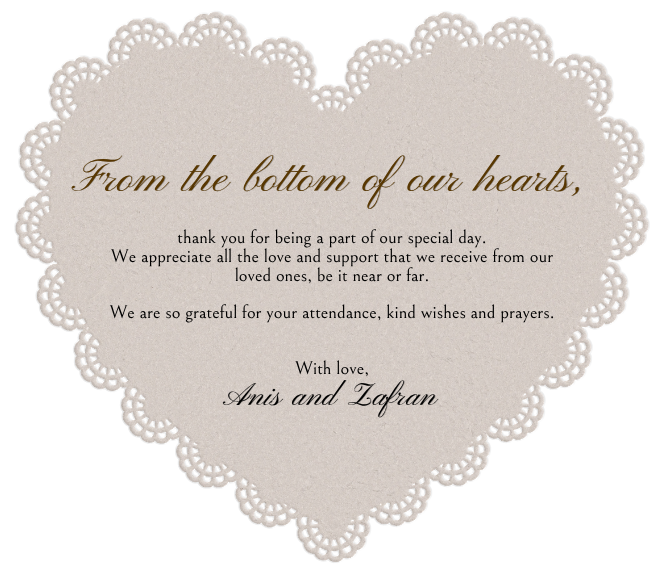
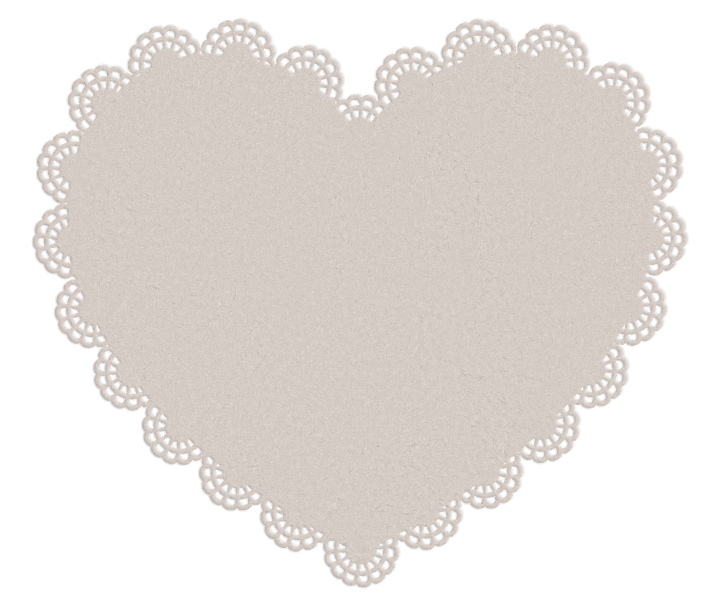
Rebuild the thank-you note from the Elementor export
The note was a flat PNG with the copy baked in, hung off the end of the
gift registry section. It becomes its own section with live text over the
blank doily, matching the Elementor page's structure.

Artwork re-downloaded from the source the page CSS references
(2-2-e1786461304989.png, 724x602) — the WP editor's trim of the 1200x630
original, which carries more heart per pixel than the untrimmed file.

Sizing deviates from Elementor the same way the questions card does: there
the box is min-height 50vh with the artwork sized by `contain`, so the
heart is height-driven and its width swings with the viewport while the
copy inside stays fixed px. Width drives it here instead, and the type is
in cqw against the heart's own width, so the note holds its proportions at
every breakpoint. 38vw is what Elementor's 50vh works out to at 1440x900.

The type scale comes from the old raster rather than Elementor's px sizes:
each line was measured off the PNG, scaled to this canvas, and divided by
the string's width at 1em. Elementor's own sizes run the heading out over
the lace at 1440x900. The note's paragraph gaps are tightened from the
export's blank-line spacers for the same reason — at a full line each, the
stack runs past the point of the heart.

diff --git a/components/sections/ThankYouSection.module.css b/components/sections/ThankYouSection.module.css
@@ -1,0 +1,138 @@
+/* Elementor: .e-9f8dec3 — min-height 18vh, column. Transparent: the backdrop
+   comes from the shared scroll stage in InvitationContent.module.css. */
+.section {
+  position: relative;
+  z-index: 1;
+  width: 100%;
+  min-height: 18vh;
+  display: flex;
+  flex-direction: column;
+  align-items: center;
+  justify-content: center;
+  padding-block: 3rem;
+  overflow: hidden;
+}
+
+/* ── The doily heart: Elementor .e-9b20c2e-a82e884 — the artwork as a
+   contained background with the note laid over it.
+
+   Deviates from Elementor on sizing. There the box is min-height 50vh with the
+   artwork sized by `contain`, so the heart is height-driven and its width
+   swings with the viewport's aspect ratio; the copy inside is fixed px and
+   doesn't follow. Width drives it here instead, mirroring .registryCard and
+   .questions in GiftRegistrySection so the three cards share an edge down the
+   column. 38vw is what Elementor's 50vh works out to on a 1440x900 desktop.
+
+   The second cap keeps the heart under 85svh tall, expressed as a width
+   (85svh x the ratio) rather than a max-height — max-height would clamp the
+   box against the aspect-ratio and letterbox the artwork inside it. svh, not
+   vh: on mobile vh means the tall viewport with the address bar hidden, so a
+   vh cap can still run past the visible screen. Matches InvitationCardSection.
+   ── */
+.heart {
+  position: relative;
+  z-index: 1;
+  width: 38vw;
+  max-width: min(724px, calc(85svh * 724 / 602));
+  aspect-ratio: 724 / 602;
+  /* Sizing container: every type size below is a share of the heart's own
+     width (cqw), so the note scales with the artwork and keeps the same
+     proportions at every breakpoint — it can never outgrow the doily. */
+  container-type: size;
+}
+
+.heartArt {
+  object-fit: contain;
+}
+
+/* Type well, inset to the flat cream field inside the lace border. The heart
+   tapers to a point, so the bottom inset is the binding one: at 78% down the
+   artwork the flat field is only ~44% wide, which is what holds the signature
+   line's size. Measured against the artwork's alpha channel. */
+.type {
+  position: absolute;
+  top: 21%;
+  bottom: 21%;
+  left: 13%;
+  right: 13%;
+  z-index: 1;
+  display: flex;
+  flex-direction: column;
+  align-items: center;
+  justify-content: center;
+  gap: 3cqw;
+  text-align: center;
+}
+
+/* ── Type scale.
+
+   Every size is a share of the heart's width, taken from the note that used to
+   be baked into this PNG: its lines were measured off the old raster, scaled to
+   this artwork's canvas, and divided by each string's width at font-size 1em
+   (Pinyon Script 12.56em for the heading, 6.25em for the signature; Bellefair
+   25.44em for the longest note line). Deliberately smaller than Elementor's
+   fixed px sizes — those are set against a heart whose width swings with the
+   viewport, and at 1440x900 they run the heading out over the lace. ── */
+
+/* Elementor: #46765f7 — Pinyon Script 2.5em, 600, #583701 */
+.heading {
+  font-family: var(--font-script);
+  font-size: 5.7cqw;
+  font-weight: 600;
+  line-height: 1.15;
+  color: var(--c-gold);
+}
+
+/* Elementor: #2a6235f — Bellefair 1.4em/1.1, #000, padding-inline 16%/18% of
+   its column. That inset is folded into the width here, which is what wraps
+   the middle paragraph onto two lines and holds "We are so grateful…" on one.
+   The gap is the export's <p><br></p> spacers, tightened: at a full blank line
+   each the stack runs past the point of the heart. */
+.note {
+  width: 66cqw;
+  display: flex;
+  flex-direction: column;
+  gap: 1.6cqw;
+  font-family: var(--font-display);
+  font-size: 2.45cqw;
+  font-weight: 400;
+  line-height: 1.15;
+  color: #000;
+}
+
+/* Elementor: #9a4693e — same face and size as the note, set further below it */
+.signOff {
+  margin-top: 2.2cqw;
+  font-family: var(--font-display);
+  font-size: 2.45cqw;
+  font-weight: 400;
+  line-height: 1.15;
+  color: #000;
+}
+
+/* Elementor: #69b2791 — Pinyon Script 2.3em, 600, #583701. Sits close under
+   "With love," rather than a full gap below it. */
+.signature {
+  margin-top: -1.6cqw;
+  font-family: var(--font-script);
+  font-size: 4.85cqw;
+  font-weight: 600;
+  line-height: 1.15;
+  color: var(--c-gold);
+}
+
+/* Elementor tablet breakpoint — the box widens (there, 50vh contained inside a
+   100vw container); the type is in cqw so it follows on its own. */
+@media (max-width: 1024px) {
+  .heart {
+    width: 78vw;
+  }
+}
+
+/* Elementor mobile breakpoint — .e-9b20c2e-a82e884 goes min-width 100vw,
+   pulled back to 95vw here so the lace never touches the screen edge. */
+@media (max-width: 767px) {
+  .heart {
+    width: 95vw;
+  }
+}

diff --git a/components/sections/GiftRegistrySection.tsx b/components/sections/GiftRegistrySection.tsx
@@ -39,7 +39,7 @@ export default function GiftRegistrySection({ style }: GiftRegistrySectionProps)
       <div className={styles.row} style={style}>
         <Image
           src="/el-gift-registry.png"
-          alt="Gift Registry — your presence at our wedding is the greatest gift of all. For those who wish to contribute, you may transfer directly to Bank Islam 05067021314322, Anis Sufea Binti Ismail."
+          alt="Gift Registry — your presence at our wedding is the greatest gift of all. However, for those who wish to contribute, you may transfer directly to Bank Islam 05067021314322, Anis Sufea Binti Ismail."
           width={746}
           height={570}
           className={styles.registryCard}
@@ -64,7 +64,7 @@ export default function GiftRegistrySection({ style }: GiftRegistrySectionProps)
         />
 
         <div className={styles.questionsType}>
-          <h2 className={styles.questionsHeading}>Have any questions?</h2>
+          <h2 className={styles.questionsHeading}>Further Questions:</h2>
           <p className={styles.questionsSub}>Contact us directly or our family members:</p>
 
           {CONTACT_GROUPS.map((group) => (
@@ -84,17 +84,6 @@ export default function GiftRegistrySection({ style }: GiftRegistrySectionProps)
             </div>
           ))}
         </div>
-      </div>
-
-      <div className={styles.row}>
-        <Image
-          src="/el-thankyou-heart.png"
-          alt="From the bottom of our hearts — thank you for being a part of our special day. We appreciate all the love and support that we receive from our loved ones, be it near or far. We are so grateful for your attendance, kind wishes and prayers. With love, Anis and Zafran."
-          width={660}
-          height={576}
-          className={styles.heart}
-          sizes="(max-width: 1024px) 100vw, 41vw"
-        />
       </div>
     </section>
   );

diff --git a/components/sections/ThankYouSection.tsx b/components/sections/ThankYouSection.tsx
@@ -1,0 +1,43 @@
+import Image from 'next/image';
+import styles from './ThankYouSection.module.css';
+
+/* Elementor #2a6235f — the export keeps these as three <p>s separated by
+   <p><br></p> spacers. "your attendance" is corrected from the export's
+   "you attendance". */
+const NOTE = [
+  'Thank you for being a part of our special day.',
+  'We appreciate all the love and support that we receive from our loved ones, be it near or far.',
+  'We are so grateful for your attendance, kind wishes and prayers',
+];
+
+export default function ThankYouSection() {
+  return (
+    <section className={styles.section}>
+      <div className={styles.heart}>
+        <Image
+          src="/el-thankyou-heart.png"
+          alt=""
+          fill
+          sizes="(max-width: 767px) 95vw, (max-width: 1024px) 78vw, 38vw"
+          className={styles.heartArt}
+        />
+
+        <div className={styles.type}>
+          {/* Elementor #46765f7 — Pinyon Script 2.5em, #583701 */}
+          <h2 className={styles.heading}>From the bottom of our hearts,</h2>
+
+          <div className={styles.note}>
+            {NOTE.map((line) => (
+              <p key={line}>{line}</p>
+            ))}
+          </div>
+
+          {/* Elementor #9a4693e */}
+          <p className={styles.signOff}>With love,</p>
+          {/* Elementor #69b2791 — Pinyon Script 2.3em, #583701 */}
+          <p className={styles.signature}>Anis &amp; Zafran</p>
+        </div>
+      </div>
+    </section>
+  );
+}

diff --git a/components/InvitationContent.tsx b/components/InvitationContent.tsx
@@ -9,6 +9,7 @@ import CountdownSection from './sections/CountdownSection';
 import RsvpSection from './sections/RsvpSection';
 import WishesSection, { Wish } from './sections/WishesSection';
 import GiftRegistrySection from './sections/GiftRegistrySection';
+import ThankYouSection from './sections/ThankYouSection';
 import SiteFooter from './sections/SiteFooter';
 
 /** Sections the IntersectionObserver watches — must match the ids BottomNav scrolls to. */
@@ -82,6 +83,7 @@ export default function InvitationContent({ revealed }: InvitationContentProps) 
           <WishesSection wishes={wishes} isIn={sectionsIn.wishes} />
         </RsvpSection>
         <GiftRegistrySection style={fadeUp(sectionsIn.gift)} />
+        <ThankYouSection />
       </div>
 
       <SiteFooter />

diff --git a/components/sections/GiftRegistrySection.module.css b/components/sections/GiftRegistrySection.module.css
@@ -29,14 +29,6 @@
   height: auto;
 }
 
-/* Elementor: #ca0380e max-width 41vw (107vw at tablet — capped here at 100vw
-   so the page never scrolls sideways) */
-.heart {
-  width: 41vw;
-  max-width: 660px;
-  height: auto;
-}
-
 /* ── Questions card: Elementor .e-c2b42af-ffd03ea — the scalloped card as a
    contained background with the contact column laid over it.
 
@@ -179,10 +171,6 @@
     width: 100vw;
   }
 
-  .heart {
-    width: 100vw;
-  }
-
   .questions {
     width: 100vw;
   }
@@ -197,10 +185,6 @@
 @media (max-width: 767px) {
   .registryCard {
     width: 96vw;
-  }
-
-  .heart {
-    width: 95vw;
   }
 
   /* Elementor: heading 1.5em, sub + side labels 0.7em, buttons 0.6em — the
